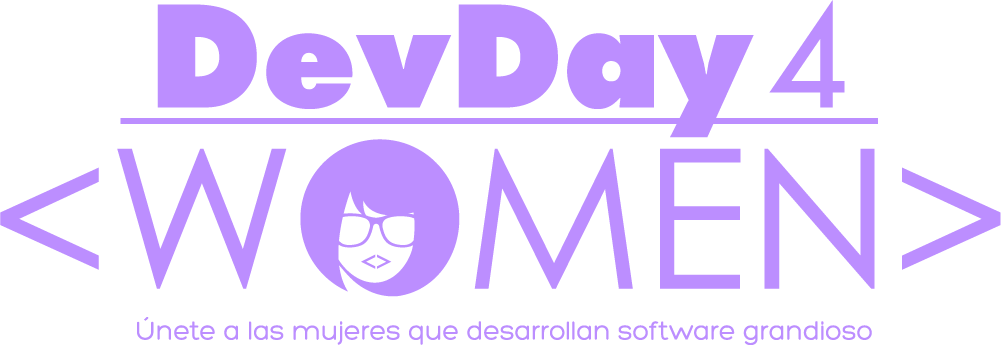
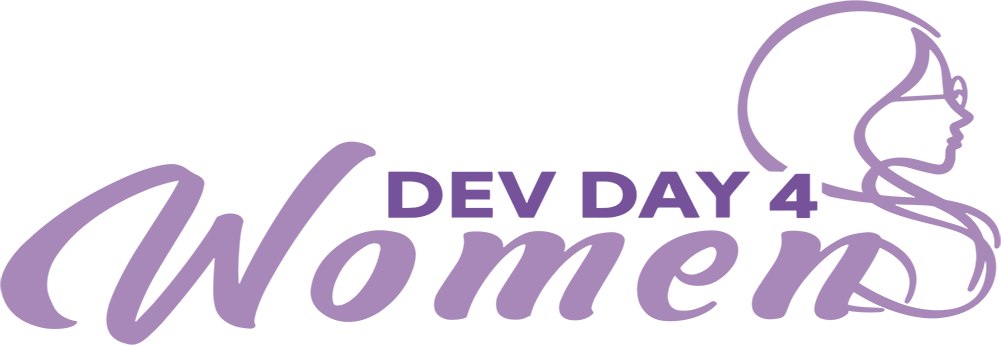
nueva iddentidad

diff --git a/content/registro/_index.md b/content/registro/_index.md
@@ -1,6 +1,6 @@
 ---
 title: "Registro"
-date: 2019-09-10T13:51:25+06:00
+date: 2022-07-25T13:51:25+06:00
 draft: false
 description: ""
 ---
